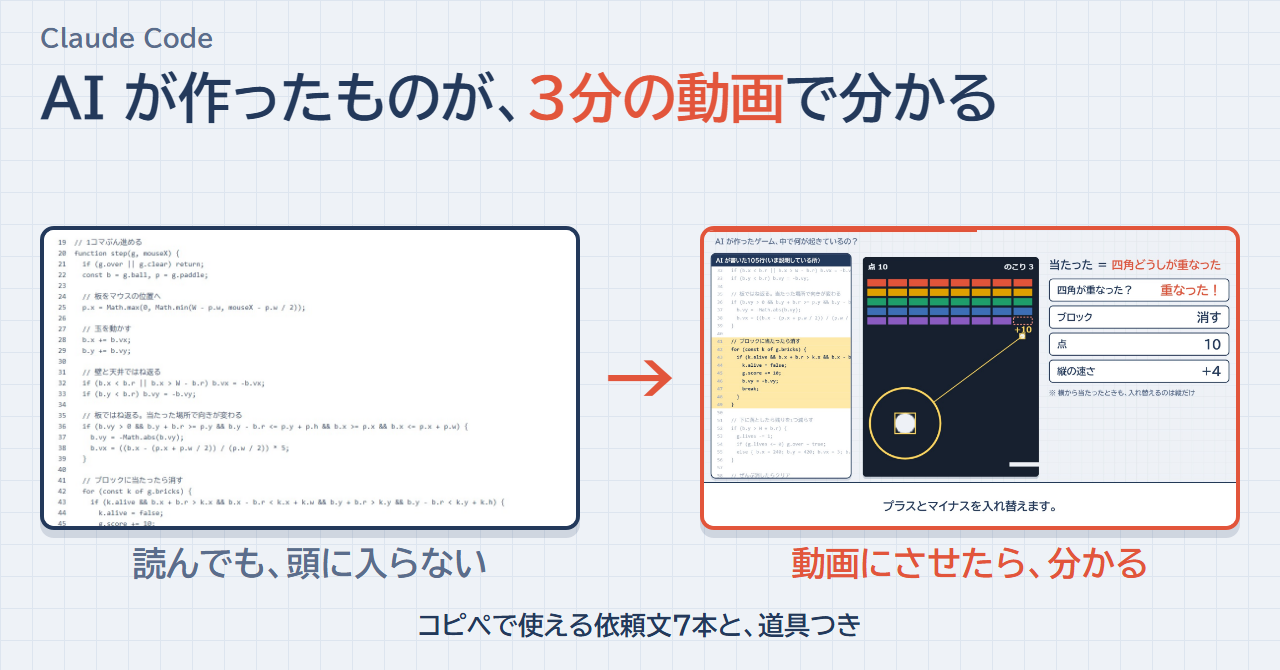
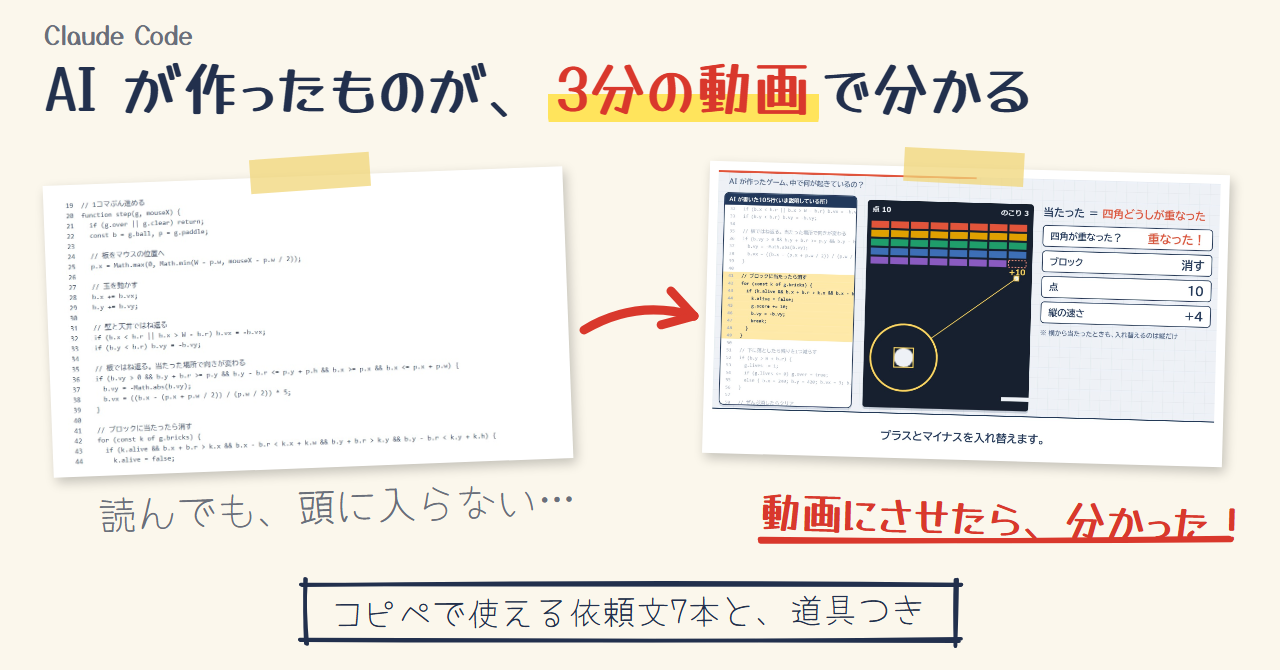
ai-output-video: 図を手書きふうに（見出し・これまで→これから・書きこみ入りの3枚）

Changed region(s): [[0.0312, 0.0299, 0.9688, 0.9851], [0.25, 0.5373, 0.3125, 0.5672]]

diff --git a/ai-output-video.html b/ai-output-video.html
@@ -150,17 +150,17 @@
 <ul><li>玉は、1秒に約60回、位置を少しずつずらして動かしている</li><li>玉を囲む四角と、ブロックの四角が重なったら「当たった」</li><li>終わらなくなるのは、板のまんなかで受け続けたとき。それと、玉が壁にはまったとき</li></ul>
 <h2>動画にさせると、何が変わるのか</h2>
 <p>先にまとめると、こうです。</p>
-<figure><img src="assets/ai-output-video/fig_ba.jpg" alt="AI に動画で説明させる前と、させたあと" width="1280" height="1500" loading="lazy" decoding="async"><figcaption>AI に動画で説明させる前と、させたあと</figcaption></figure>
+<figure><img src="assets/ai-output-video/fig_ba_hand.jpg" alt="AI に動画で説明させる前と、させたあと" width="1280" height="1500" loading="lazy" decoding="async"><figcaption>AI に動画で説明させる前と、させたあと</figcaption></figure>
 <p>上から順に、お見せしますね。</p>
 <p><strong>① 「できました」のあとに、3分の動画が入ります。</strong></p>
 <p>さっき見てもらったのが、その動画です。受け取ったら、使う前にまず3分見る。やることは、これだけです。</p>
 <p><strong>② 「読む」が「見る」に変わります。</strong></p>
 <p>動画の中では、ゲームそのものが1コマずつ動きます。玉とブロックが重なった瞬間にブロックが消えて、点が入る。プログラムのどの行の話なのかも、左側で光って教えてくれます。</p>
-<figure><img src="assets/ai-output-video/fig_hit.jpg" alt="「当たった」の判定を、ゲームをコマ送りにして見せている所" width="1280" height="720" loading="lazy" decoding="async"><figcaption>「当たった」の判定を、ゲームをコマ送りにして見せている所</figcaption></figure>
+<figure><img src="assets/ai-output-video/fig_hit_hand.jpg" alt="「当たった」の判定を、ゲームをコマ送りにして見せている所" width="1280" height="720" loading="lazy" decoding="async"><figcaption>「当たった」の判定を、ゲームをコマ送りにして見せている所</figcaption></figure>
 <p>長い説明文を読んでいたときには浮かばなかった絵が、最初から目の前にあります。</p>
 <p><strong>③ 穴が、使う前に見つかります。</strong></p>
 <p>実はこのゲーム、ある動かし方をすると、玉を受け続けているかぎり、ブロックが残り1個のまま終わらなくなります。</p>
-<figure><img src="assets/ai-output-video/fig_wallstuck.jpg" alt="玉が壁にはまって、残り1個のまま終わらない" width="1280" height="720" loading="lazy" decoding="async"><figcaption>玉が壁にはまって、残り1個のまま終わらない</figcaption></figure>
+<figure><img src="assets/ai-output-video/fig_wallstuck_hand.jpg" alt="玉が壁にはまって、残り1個のまま終わらない" width="1280" height="720" loading="lazy" decoding="async"><figcaption>玉が壁にはまって、残り1個のまま終わらない</figcaption></figure>
 <p>この穴は、動画を作っている途中で出てきました。ふつうに遊んでいるだけでは、まず気づけません。人に渡したあとで見つかるのとは、大ちがいです。</p>
 <p><strong>④ ゲームでなくても、同じです。</strong></p>
 <p>AI に書かせた集計の道具も、AI が出してきた数字だらけの表も、同じやり方で動画になりました。</p>
@@ -175,7 +175,7 @@
 <h2>「動画にして」と頼むだけでは、うまくいきませんでした</h2>
 <p>ここまで読んで、「それなら、自分で『動画にして』と頼めばいいのでは？」と思った方もいると思います。</p>
 <p>私も、最初はそうしました。プログラムを上からゆっくり映して、AI に説明させる動画です。</p>
-<figure><img src="assets/ai-output-video/fig_first.jpg" alt="最初に作った動画。プログラムを映して、読み上げるだけでした" width="1280" height="720" loading="lazy" decoding="async"><figcaption>最初に作った動画。プログラムを映して、読み上げるだけでした</figcaption></figure>
+<figure><img src="assets/ai-output-video/fig_first_hand.jpg" alt="最初に作った動画。プログラムを映して、読み上げるだけでした" width="1280" height="720" loading="lazy" decoding="async"><figcaption>最初に作った動画。プログラムを映して、読み上げるだけでした</figcaption></figure>
 <p>4分見て、中身が頭に残りませんでした。読んで入ってこないものは、読み上げてもらっても入ってこないんですよね。</p>
 <p>そこで作り方を変えました。プログラムを見せるのは最初の数秒だけ。すぐに「これだけ見て、分かりますか？」と聞いて、3つの問いを出す。あとは、その答えを絵で見せていく。</p>
 <p>同じプログラムの動画が、こう変わりました。</p>
